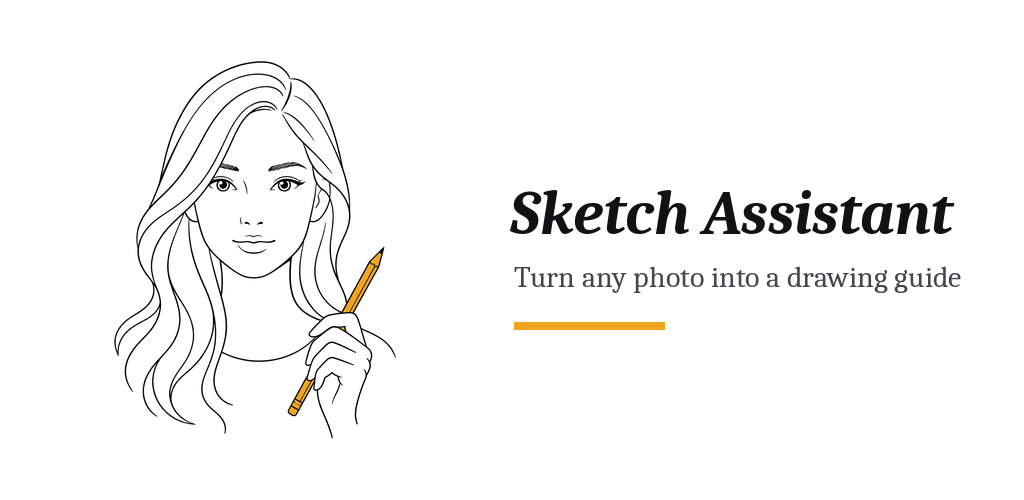
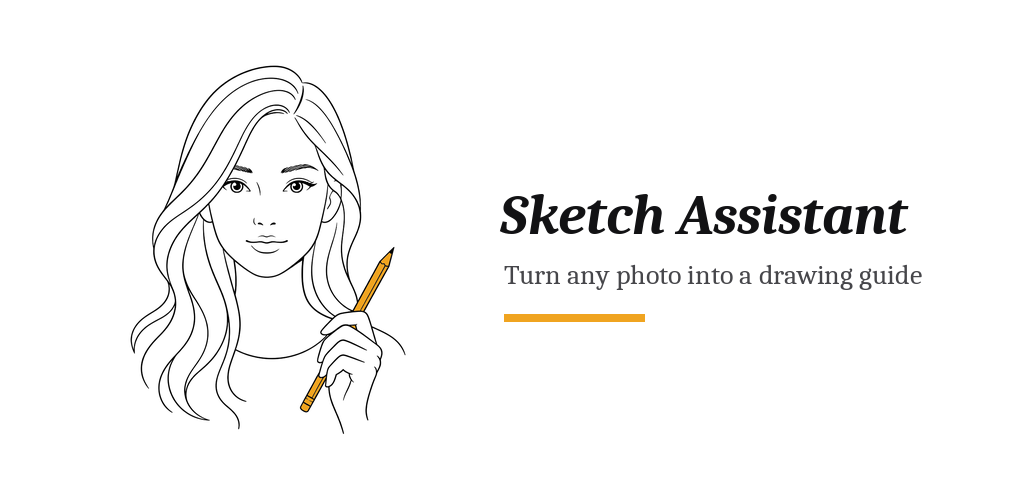
Fix Android build: unpin Kivy, drop Cython pin, pin p4a toolchain

diff --git a/scripts/make_brand.py b/scripts/make_brand.py
@@ -96,15 +96,24 @@ fg.alpha_composite(art, (74, 74))
 fg.save(BRAND / "icon_fg.png")
 Image.new("RGB", (432, 432), TILE).save(BRAND / "icon_bg.png")
 
+# Play Store listing icon: FULL SQUARE, opaque, no pre-rounded corners and no drop shadow.
+# Google Play masks it to a 30% radius and adds its own shadow, so pre-rounding would
+# double-round it and transparent corners would show the Play UI background through.
+play = Image.new("RGB", (512, 512), TILE)
+inner = ART.resize((470, 470), Image.LANCZOS)          # a little breathing room inside the mask
+play.paste(inner, (21, 21))
+play.convert("RGBA").save(BRAND / "play_store_icon.png")   # 32-bit PNG, fully opaque
+
 # Play Store feature graphic (1024x500, required for the store listing)
 fx = Image.new("RGB", (1024, 500), TILE)
 fd = ImageDraw.Draw(fx)
-fx.paste(ART.resize((430, 430), Image.LANCZOS), (40, 35))
+fx.paste(ART.resize((420, 420), Image.LANCZOS), (58, 40))
 _f = lambda sz, bold=True: ImageFont.truetype(
     "/usr/share/fonts/truetype/crosextra/Caladea-%s.ttf" % ("BoldItalic" if bold else "Regular"), sz)
-fd.text((510, 178), "Sketch Assistant", font=_f(62), fill=INK)
-fd.text((514, 260), "Turn any photo into a drawing guide", font=_f(30, False), fill=(70, 70, 74))
-fd.rectangle((514, 322, 514 + 150, 322 + 7), fill=AMBER)
+# keep every element inside the central ~80%: Google crops this graphic on some surfaces
+fd.text((500, 182), "Sketch Assistant", font=_f(57), fill=INK)
+fd.text((504, 258), "Turn any photo into a drawing guide", font=_f(28, False), fill=(70, 70, 74))
+fd.rectangle((504, 314, 504 + 140, 314 + 7), fill=AMBER)
 fx.save(BRAND / "feature_graphic.png")
 
 ps = Image.new("RGB", (1024, 1024), TILE)

diff --git a/PLAY_LISTING.md b/PLAY_LISTING.md
@@ -1,0 +1,141 @@
+# Play Console content — Sketch Assistant
+
+Copy-paste material for the store listing and the declaration forms. Every answer below
+matches what the app actually does, so it should survive review.
+
+---
+
+## Store listing
+
+**App name** (30 characters max)
+
+```
+Sketch Assistant
+```
+
+**Short description** (80 characters max — this is the line people see in search results)
+
+```
+Turn any photo into a pencil sketch and a step-by-step drawing guide.
+```
+
+**Full description** (4000 characters max)
+
+```
+Sketch Assistant turns a photo into something you can actually draw from.
+
+Pick a photo, choose a sketch style, and the app gives you a clean reference plus a
+step-by-step guide: which pencil grades to use, how much pressure to apply, what to draw
+first, and where the shading goes. Built for people learning to draw, not for people who
+already know how.
+
+PORTRAIT MODE
+Point it at a photo of a person and the app finds the faces for you. Tap the one you want
+and pick a style:
+
+• Line Art — clean outlines only, nothing else to distract you
+• Technical — light construction lines, proportion guides and gentle hatching
+• Value Study — the face reduced to flat tones, so you can see the big shapes
+• Cross-Hatch — shading built from layered pen strokes
+• Photorealism — smooth graphite shading with real pencil texture
+
+OBJECT MODE
+The same idea for still life. Contour, Basic Shapes, Value Study, Cross-Hatch and
+Photorealism, applied to the whole photo.
+
+THE DRAWING GUIDE
+Tap through to the guide and you get the sketch enlarged, with optional proportion lines
+over it — eye line, nose line, mouth line, centre axis and a rule-of-thirds grid — plus:
+
+• which pencils to reach for, from 2H through 6B
+• how hard to press, and when to build up layers instead
+• numbered steps, in order, from first construction line to final detail
+• common mistakes for each style
+• a material guide for objects: matte, glossy, glass, fabric and wood each shade
+  differently, and the app shows how
+
+A detail slider lets you dial any style up or down, from a few guide lines for your first
+attempt to full detail once you are confident.
+
+Save any sketch to your gallery to print it, trace it, or work from it on screen.
+
+PRIVATE AND OFFLINE
+Everything runs on your phone. Your photos are never uploaded. There are no accounts, no
+ads, no trackers and no internet connection required — it works the same in aeroplane mode.
+```
+
+---
+
+## Data safety form
+
+Google asks this in Policy → App content → Data safety. The honest answers are also the
+simplest ones.
+
+| Question | Answer |
+|---|---|
+| Does your app collect or share any of the required user data types? | **No** |
+| Is all of the user data encrypted in transit? | n/a — no data is transmitted |
+| Do you provide a way for users to request that their data is deleted? | n/a — no data is collected |
+
+Why this is accurate: photos are chosen through Android's system picker, processed on the
+device and never transmitted. The app makes no network requests, has no analytics or ad
+SDKs, and stores nothing beyond a working copy of the current photo in its own private
+cache, plus any sketch the user deliberately saves to their own gallery.
+
+**Photos are not "collected"** under Google's definition, because they are never transmitted
+off the device. Collection means sending data off the device; on-device-only processing is
+explicitly excluded.
+
+---
+
+## Other App content declarations
+
+| Section | Answer |
+|---|---|
+| Privacy policy | URL of `PRIVACY_POLICY.md` in your GitHub repo |
+| Ads | **No**, the app contains no ads |
+| App access | All functionality is available without an account — no login details needed |
+| Content rating | Complete the questionnaire. Everything is "no": no violence, no sexual content, no profanity, no gambling, no user-to-user communication. Expect **Everyone / PEGI 3**. |
+| Target audience | Choose 13+ or 18+ unless you want the stricter Families policy rules. The app is not designed for children. |
+| News app | **No** |
+| Government app | **No** |
+| Financial features | **None** |
+| Health | **None** |
+| Data deletion | n/a — no account and no collected data |
+
+---
+
+## Graphics
+
+Already generated in `sketch_assistant/assets/brand/`:
+
+| Asset | File | Size |
+|---|---|---|
+| App icon (Play listing) | `play_store_icon.png` | 512 × 512 |
+| Feature graphic | `feature_graphic.png` | 1024 × 500 |
+
+Upload **`play_store_icon.png`**, not `icon.png`. The listing icon must be a full opaque
+square: Google masks the corners at a 30% radius and adds its own drop shadow, so a
+pre-rounded asset gets double-rounded and transparent corners show the Play UI through.
+`icon.png` is the pre-rounded in-app launcher icon and is used by `buildozer.spec` instead.
+
+**Phone screenshots — you still need these.** Google requires at least 2 (up to 8), between
+320 px and 3840 px on the shorter side. Take them on the phone once the APK installs:
+
+1. Main page with a photo loaded and a sketch showing beside it
+2. The drawing guide page with the proportion lines on
+3. The style tiles, to show the range
+4. Object mode with the material guide open
+
+---
+
+## Pre-launch checklist
+
+- [ ] Application ID decided — it can never change after the first upload
+- [ ] Privacy policy published at a public URL and pasted into the console
+- [ ] Data safety form completed
+- [ ] Content rating questionnaire completed
+- [ ] At least 2 phone screenshots uploaded
+- [ ] App icon and feature graphic uploaded
+- [ ] Release tested from the signed `.apk` on a real phone
+- [ ] Uploaded to **Internal testing** first, never straight to production

diff --git a/PRIVACY_POLICY.md b/PRIVACY_POLICY.md
@@ -1,0 +1,72 @@
+# Privacy Policy — Sketch Assistant
+
+**Last updated: 26 October 2026**
+
+Sketch Assistant turns a photo into a pencil sketch and a step-by-step drawing guide.
+Everything it does happens on your device. The app has no accounts, no servers and no
+analytics, and it does not upload your photos or any other information anywhere.
+
+## Photos you choose
+
+When you tap **Add a photo → Choose from gallery**, Android's own photo picker opens.
+The app does not browse your photo library and does not ask for storage permission: you
+pick one image, and only that image is handed to the app.
+
+That image is copied into the app's private storage so it can be worked on, then analysed
+on the device to find faces and to draw the sketch. The working copy is replaced the next
+time you choose a photo, and is removed if you clear the app's data or uninstall the app.
+
+Your photos are never uploaded, never shared, and never seen by the developer.
+
+## Camera
+
+When you tap **Add a photo → Take photo**, your phone's own camera app opens and takes the
+picture. Sketch Assistant does not hold the camera permission and has no direct access to
+the camera. The resulting photo is handled exactly like one chosen from the gallery.
+
+## Sketches you save
+
+Tapping **Save PNG** writes the finished sketch into your device's gallery, in a folder
+called **Pictures/SketchAssistant**. These files stay on your device and belong to you.
+The app does not read them back, index them, or send them anywhere.
+
+## Face detection
+
+Finding faces in a photo is done entirely on the device, by a small detection model
+included inside the app. No face data, measurement or image ever leaves your phone, and
+nothing is stored: the detection result exists only while the photo is open in the app.
+
+The app does not identify or recognise anyone. It only locates where a face sits in the
+picture so it can crop and sketch it.
+
+## Other data
+
+Sketch Assistant contains no analytics SDKs, no advertising networks and no trackers. It
+shows no ads. It does not collect your name, email address, location, contacts, device
+identifiers or any other personal information, and it does not create an account or ask
+you to sign in.
+
+The app does not make network requests. It works fully offline, including in aeroplane mode.
+
+## Children
+
+Sketch Assistant knowingly collects no personal information from anyone, including
+children. No data leaves the device, so there is nothing to collect, store or share.
+
+## Changes to this policy
+
+This policy would be updated here if a future version of the app added accounts, cloud
+sync, purchases, analytics or anything else that changed how information is handled. The
+date at the top shows when the policy last changed.
+
+## Contact
+
+Questions about this policy or about privacy in Sketch Assistant:
+
+**[your-contact-email@example.com]**
+
+<!--
+BEFORE PUBLISHING: replace the contact address above with a real one you monitor.
+Google Play requires a reachable privacy policy with a working contact, and reviewers
+do check. Everything else in this document is already accurate for the current app.
+-->

diff --git a/PLAYSTORE.md b/PLAYSTORE.md
@@ -143,6 +143,15 @@ Then run the release workflow again. Tagging a commit `v0.1.1` also triggers it.
 
 - **OpenCV recipe errors** — the heaviest and most fragile part of the build. Send me the last
   ~50 lines of the failed step and I will work through it.
+- **C errors compiling Kivy** mentioning `python3.14`, `_PyLong_AsByteArray`,
+  `_PyUnicode_FastCopyCharacters` or "expected 6, have 5" — a toolchain mismatch, not an app bug.
+  python-for-android builds against Python 3.14, and two things must line up with it:
+  `buildozer.spec` must **not** pin `kivy==2.3.0` (the recipe's own 2.3.1 carries the 3.14
+  patches), and the workflow must **not** install `cython<3` (each recipe installs the Cython
+  version it needs; forcing 0.29 emits private C API calls Python 3.14 removed). Both are already
+  correct in this repo — this note is here in case someone reintroduces either pin.
+- **A build that used to work suddenly fails** — check `p4a.branch` is still pinned in
+  `buildozer.spec`. Without it buildozer tracks python-for-android's `master`, which moves.
 - **`ubuntu-22.04` runner unavailable** — GitHub retires runner images over time. Change
   `runs-on:` to `ubuntu-latest` in both workflow files.
 - **"The .aab came out unsigned"** — one of the four secrets is missing or misspelt. The names

diff --git a/README.md b/README.md
@@ -35,6 +35,9 @@ Everything builds on GitHub Actions - nothing to install locally.
 Full walkthrough, including the signing key, the four GitHub secrets and the Play Console
 checklist: **[PLAYSTORE.md](PLAYSTORE.md)**.
 
+Store listing copy, data-safety answers and the declaration forms: **[PLAY_LISTING.md](PLAY_LISTING.md)**.
+Privacy policy to publish: **[PRIVACY_POLICY.md](PRIVACY_POLICY.md)**.
+
 Local alternative (Ubuntu / WSL2): `scripts/package_android.sh`.
 
 ## Modes, detail slider, face model
